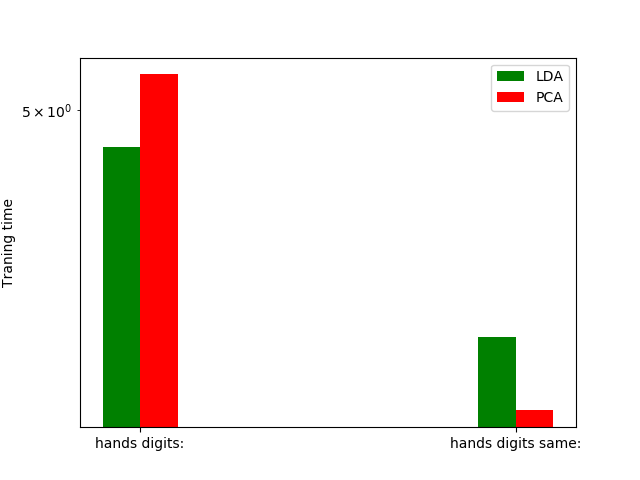
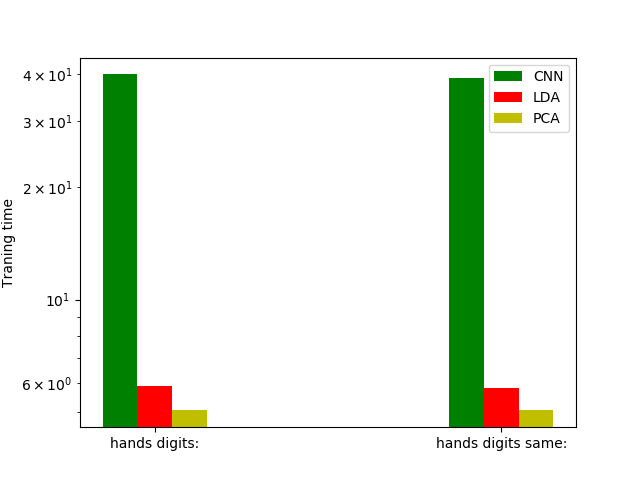
results for CNN

diff --git a/src/postprocessing/processResults.py b/src/postprocessing/processResults.py
@@ -20,6 +20,8 @@ class ProcessResults:
     def process(self, results, classifierName):
         labels = self.getDatabasesLabels(results)
 
+        print("results: ", results)
+
         extractorsResult = self.getDictWith(results, self.avrgTestScoreSelector)
         self.savePlot.saveBarPlot(extractorsResult, classifierName+"_accuracy_comparison",
             labels, ylabel='Accuracy')
@@ -102,11 +104,10 @@ class ProcessResults:
 
     def getErrorTableForAllExtractors(self, results):
         train_score = self.getDictWith(results, self.avrgTestScoreSelector)
-        errorTables = [[], []]
+        errorTables = [[], [], []]
 
-        for _, scoresForDatabases in train_score.items():
-            for i, extractorTrainScore in zip(range(self.numberOfDatabases), scoresForDatabases):
-                errorTables[i].append(extractorTrainScore)
+        for i, extractorTrainScore in zip(range(self.numberOfExtractors), train_score.items()):
+            errorTables[i].append(extractorTrainScore[1])
 
         return errorTables
 
@@ -114,23 +115,31 @@ class ProcessResults:
 
 
 if __name__ == "__main__":
-    arg = {'hands digits:': {'LDA': {'fit_time': np.array([4.84076834, 4.69979095, 4.8373127 , 5.04802823, 4.90385699, 4.79904532, 5.28576994, 5.11618185, 5.07327867, 5.03035331]),
-       'score_time': np.array([0.00514603, 0.00500011, 0.00509238, 0.00497437, 0.00490928, 0.00491714, 0.0063436 , 0.004807  , 0.00476003, 0.00519109]),
-       'test_score': np.array([0.54761905, 0.55238095, 0.57142857, 0.6       , 0.61722488, 0.58653846, 0.55882353, 0.58208955, 0.59      , 0.585     ]), 
-       'train_score': np.array([0.97516199, 0.97516199, 0.97840173, 0.97462203, 0.97517539,
-       0.9768069 , 0.97631862, 0.97581945, 0.97583244, 0.97690655])}, 'PCA': {'fit_time': np.array([4.95297956, 4.87015963, 5.01747727, 4.94189501, 5.29439402,
-       5.00581288, 5.21516919, 5.08671165, 5.05369806, 4.91486049]), 'score_time': np.array([0.01190424, 0.00875854, 0.01200867, 0.01245308, 0.00860095,
-       0.00906658, 0.00920987, 0.00853372, 0.00841236, 0.00841546]), 'test_score': np.array([0.34761905, 0.38571429, 0.38095238, 0.4047619 , 0.38755981,
-       0.37019231, 0.35784314, 0.33830846, 0.315     , 0.395     ]), 'train_score': np.array([0.4087473 , 0.38552916, 0.39632829, 0.42980562, 0.39719374,
-       0.39536138, 0.39558665, 0.38259001, 0.39742213, 0.41245972])}}, 'hands digits same:': {'LDA': {'fit_time': np.array([4.70766187, 4.69797611, 4.79271507, 4.74328542, 4.77852631,
-       4.76960659, 4.80923915, 4.76882744, 4.92569876, 4.80310774]), 'score_time': np.array([0.00496817, 0.00506234, 0.00505853, 0.00498676, 0.00503922,
-       0.0079689 , 0.00485849, 0.00485182, 0.00487876, 0.00495815]), 'test_score': np.array([0.57142857, 0.56190476, 0.58095238, 0.56190476, 0.57894737,
-       0.55288462, 0.57843137, 0.56218905, 0.6       , 0.58      ]), 'train_score': np.array([0.97516199, 0.97570194, 0.97948164, 0.97678186, 0.97625472,
-       0.97626753, 0.97416577, 0.97850618, 0.97583244, 0.97475832])}, 'PCA': {'fit_time': np.array([4.77007341, 4.79104519, 4.73034263, 4.84283543, 4.63828349,
-       4.63713813, 4.66034746, 4.6785183 , 4.67736244, 4.67950535]), 'score_time': np.array([0.00867462, 0.00858235, 0.00868893, 0.00869107, 0.00841784,
-       0.00849462, 0.00834131, 0.00824142, 0.00819874, 0.00832367]), 'test_score': np.array([0.33809524, 0.34285714, 0.35238095, 0.33333333, 0.30143541,
-       0.35576923, 0.36764706, 0.37313433, 0.345     , 0.435     ]), 'train_score': np.array([0.35043197, 0.37850972, 0.34773218, 0.36663067, 0.34700486,
-       0.3425027 , 0.36006459, 0.40300913, 0.38238453, 0.41460795])}}}
+
+    arg = {'hands digits:': {'CNN': {'fit_time': np.array([41.09881115, 32.05074167, 40.12821174, 42.827425  , 43.51534581,
+       38.6638999 , 42.60091305, 38.32311487, 40.71226764, 39.717659  ]), 'score_time': np.array([0.44809604, 0.59721804, 0.50908971, 0.36806273, 0.75289488,
+       0.38465977, 0.61176682, 0.34503698, 0.50811362, 0.65724778]), 'test_score': np.array([0.8952381 , 0.9       , 0.91904762, 0.85714286, 0.86602871,
+       0.93269231, 0.90196078, 0.87562189, 0.885     , 0.88      ]), 'train_score': np.array([1., 1., 1., 1., 1., 1., 1., 1., 1., 1.])}, 'LDA': {'fit_time': np.array([6.58350778, 5.70512056, 5.68869352, 5.70475984, 5.81715679,
+       5.80032015, 5.78563452, 5.84001446, 5.88697743, 5.86401606]), 'score_time': np.array([0.0052619 , 0.00517988, 0.00524569, 0.00523973, 0.00524855,
+       0.00511932, 0.00509882, 0.00495934, 0.00492978, 0.00494719]), 'test_score': np.array([0.63809524, 0.6047619 , 0.58571429, 0.50952381, 0.60287081,
+       0.57692308, 0.62254902, 0.59701493, 0.56      , 0.595     ]), 'train_score': np.array([0.97516199, 0.97894168, 0.97516199, 0.97786177, 0.97841338,
+       0.9768069 , 0.98062433, 0.97796883, 0.97744361, 0.97529538])}, 'PCA': {'fit_time': np.array([5.14121652, 5.04868078, 5.06676483, 5.06719685, 5.05462623,
+       5.08360696, 5.07999516, 5.08329153, 5.08469367, 5.11602664]), 'score_time': np.array([0.01104116, 0.01100206, 0.01036191, 0.01043105, 0.01050115,
+       0.01023769, 0.01015496, 0.01010108, 0.0098238 , 0.00997376]), 'test_score': np.array([0.37142857, 0.34761905, 0.36666667, 0.36666667, 0.35406699,
+       0.36538462, 0.41176471, 0.3681592 , 0.435     , 0.375     ]), 'train_score': np.array([0.37365011, 0.35475162, 0.32991361, 0.34611231, 0.39449541,
+       0.37162891, 0.38266954, 0.42074154, 0.35875403, 0.41192266])}}, 'hands digits same:': {'CNN': {'fit_time': np.array([33.94790244, 37.9620018 , 34.52393293, 42.56917858, 40.71315074,
+       36.42746091, 45.7413311 , 44.76957083, 36.27902246, 38.94157338]), 'score_time': np.array([0.44482422, 0.4382062 , 0.39355636, 0.6662004 , 0.35899305,
+       0.42355323, 1.04408264, 0.38887858, 0.4203825 , 0.39659882]), 'test_score': np.array([0.9047619 , 0.9       , 0.88571429, 0.94761905, 0.85167464,
+       0.90384615, 0.8627451 , 0.90049751, 0.91      , 0.9       ]), 'train_score': np.array([1., 1., 1., 1., 1., 1., 1., 1., 1., 1.])}, 'LDA': {'fit_time': np.array([5.88594437, 5.67983699, 5.69046402, 5.71996331, 5.78156257,
+       5.77269888, 5.84139442, 5.85778379, 5.87251925, 5.86611819]), 'score_time': np.array([0.00521326, 0.00525188, 0.00519419, 0.00538826, 0.00521612,
+       0.00526094, 0.00511241, 0.00512552, 0.00510788, 0.00505757]), 'test_score': np.array([0.54285714, 0.62857143, 0.58095238, 0.65238095, 0.64593301,
+       0.57692308, 0.56862745, 0.65174129, 0.595     , 0.58      ]), 'train_score': np.array([0.97462203, 0.97678186, 0.97516199, 0.98056156, 0.97409606,
+       0.97626753, 0.97631862, 0.97581945, 0.97744361, 0.97798067])}, 'PCA': {'fit_time': np.array([5.0699141 , 5.06007361, 5.04641485, 5.04727387, 5.04307532,
+       5.05647659, 5.06736684, 5.07166481, 5.08055162, 5.0645535 ]), 'score_time': np.array([0.01062465, 0.01065731, 0.01070285, 0.01064157, 0.01056099,
+       0.01114988, 0.01044297, 0.0103066 , 0.01018929, 0.01022911]), 'test_score': np.array([0.36190476, 0.32380952, 0.38095238, 0.4       , 0.41626794,
+       0.22115385, 0.29411765, 0.34328358, 0.37      , 0.37      ]), 'train_score': np.array([0.42278618, 0.37473002, 0.39470842, 0.37257019, 0.42093902,
+       0.27562028, 0.37674919, 0.39226222, 0.32116004, 0.3915145 ])}}}
+
 
 
     p = ProcessResults()

diff --git a/src/Db.py b/src/Db.py
@@ -9,8 +9,7 @@ import os
 
 
 class Db:
-    def __init__(self, dataBaseName, saveImages = False):
-        self.__saveImages = saveImages
+    def __init__(self, dataBaseName):
         self.__numClasses = 10
         self.__outputImgSideLen = 100
         self.__dataBaseName = dataBaseName
@@ -18,13 +17,6 @@ class Db:
     def getGrayscale(self):
         noOp = lambda img : img
         return self.__transform(noOp)
-
-    def getThresholed(self):
-        return self.__transform(contourSearching.extractThresholdedPalm)
-
-    def getSkeletonized(self):
-        extractSkeleton = lambda img : skeletonizeImg.skeletonize(contourSearching.extractThresholdedPalm(img))
-        return self.__transform(extractSkeleton)
 
     def __transform(self, processOneImg):
         x = []
@@ -48,9 +40,6 @@ class Db:
 
                 outputImgSize = (self.__outputImgSideLen, self.__outputImgSideLen)
                 imgProcessed = cv2.resize(imgProcessed, outputImgSize, interpolation = cv2.INTER_NEAREST )
-
-                if self.__saveImages:
-                    saveImg("log/processedImages/" + str(classId), file, imgProcessed)
 
                 x.append(imgProcessed)
                 y.append(classId)

diff --git a/src/postprocessing/statiscalAnalysis.py b/src/postprocessing/statiscalAnalysis.py
@@ -13,8 +13,7 @@ class StatiscalAnalysis:
         #please forgive me, stats.f_oneway dosn't accept list of lists or tuple
         a = errorTable[0]
         b = errorTable[1]
-        #c = errorTable[2]
-        c = [0.0, 100.0]
+        c = errorTable[2]
 
         statistic, pvalue = stats.friedmanchisquare(a, b, c)
         self.printNullHypothesisResults(statistic, pvalue)
@@ -52,8 +51,8 @@ class StatiscalAnalysis:
 
 
     def doPostHocTesting(self, errorTable):
-        print("errorTable: ", errorTable)
         x = np.array(errorTable)
+        x = x[:, 0, :]
         res = sp.posthoc_nemenyi_friedman(x)
         print("res:")
         print(res)

diff --git a/doc/tables/Svm_fit_time_table.tex b/doc/tables/Svm_fit_time_table.tex
@@ -1,9 +1,9 @@
-\begin{tabular}{|r|l|l|}
+\begin{tabular}{|r|l|l|l|}
   \hline
-    & LDA & PCA \\
+    & CNN & LDA & PCA \\
   \hline
-  hands digits: & 4.96 & 5.04 \\
+  hands digits: & 39.96 & 5.87 & 5.08 \\
   \hline
-  hands digits same: & 4.78 & 4.71 \\
+  hands digits same: & 39.19 & 5.80 & 5.06 \\
   \hline
 \end{tabular}

diff --git a/doc/tables/Svm_acc_table.tex b/doc/tables/Svm_acc_table.tex
@@ -1,9 +1,9 @@
-\begin{tabular}{|r|l|l|}
+\begin{tabular}{|r|l|l|l|}
   \hline
-    & LDA & PCA \\
+    & CNN & LDA & PCA \\
   \hline
-  hands digits: & 0.58 & 0.37 \\
+  hands digits: & 0.89 & 0.59 & 0.38 \\
   \hline
-  hands digits same: & 0.57 & 0.35 \\
+  hands digits same: & 0.90 & 0.60 & 0.35 \\
   \hline
 \end{tabular}

diff --git a/doc/tables/Svm_pvalues.tex b/doc/tables/Svm_pvalues.tex
@@ -2,8 +2,8 @@
   \hline
     & values \\
   \hline
-  p-value & 6.065307e-01 \\
+  p-value & 2.789468e-10 \\
   \hline
-  value of statistic F & 1.00 \\
+  value of statistic F & 44.00 \\
   \hline
 \end{tabular}

diff --git a/src/extractorsComp.py b/src/extractorsComp.py
@@ -8,6 +8,7 @@ class ExtractorComparison:
 
     def __init__(self):
         self.extractorsDict = {
+            'CNN': Cnn.Cnn,
             'LDA': Lda.Lda,
             'PCA': Pca.Pca,
         }

diff --git a/src/extractors/Lda.py b/src/extractors/Lda.py
@@ -1,4 +1,3 @@
-#from sklearn.lda import LDA
 from sklearn.discriminant_analysis import  LinearDiscriminantAnalysis as LDA
 import numpy as np
 from utils import flatten
